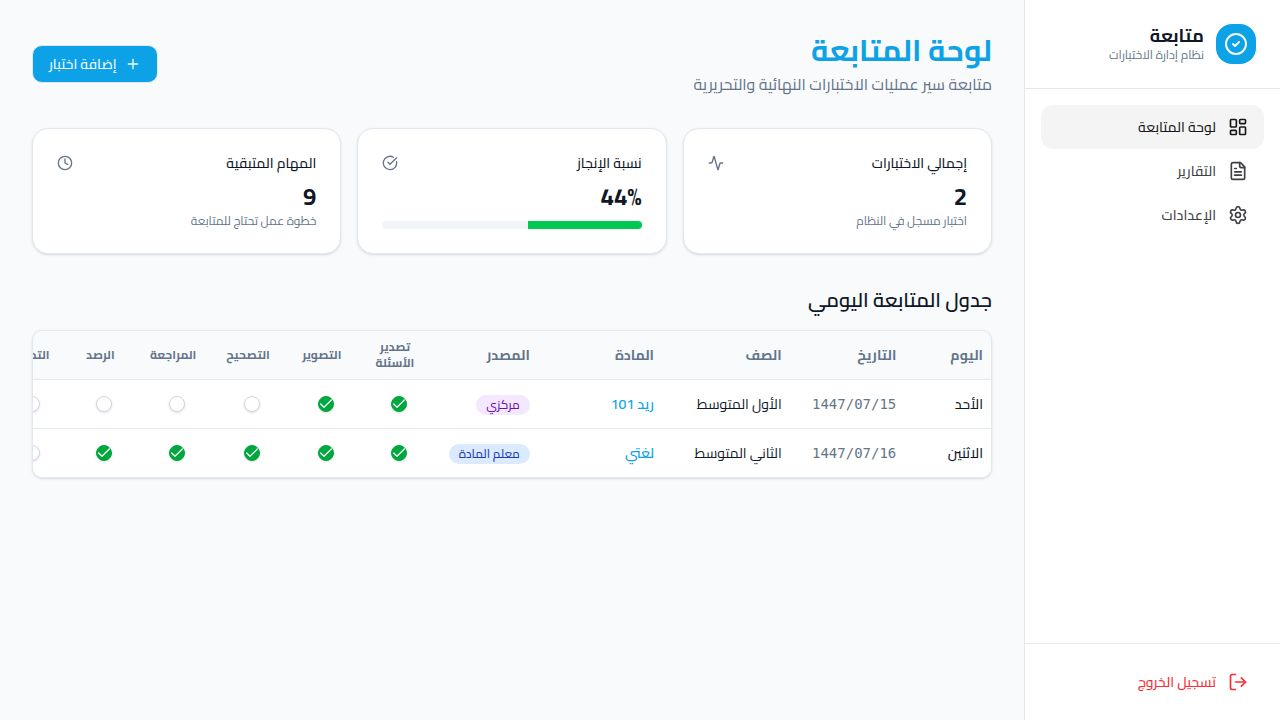
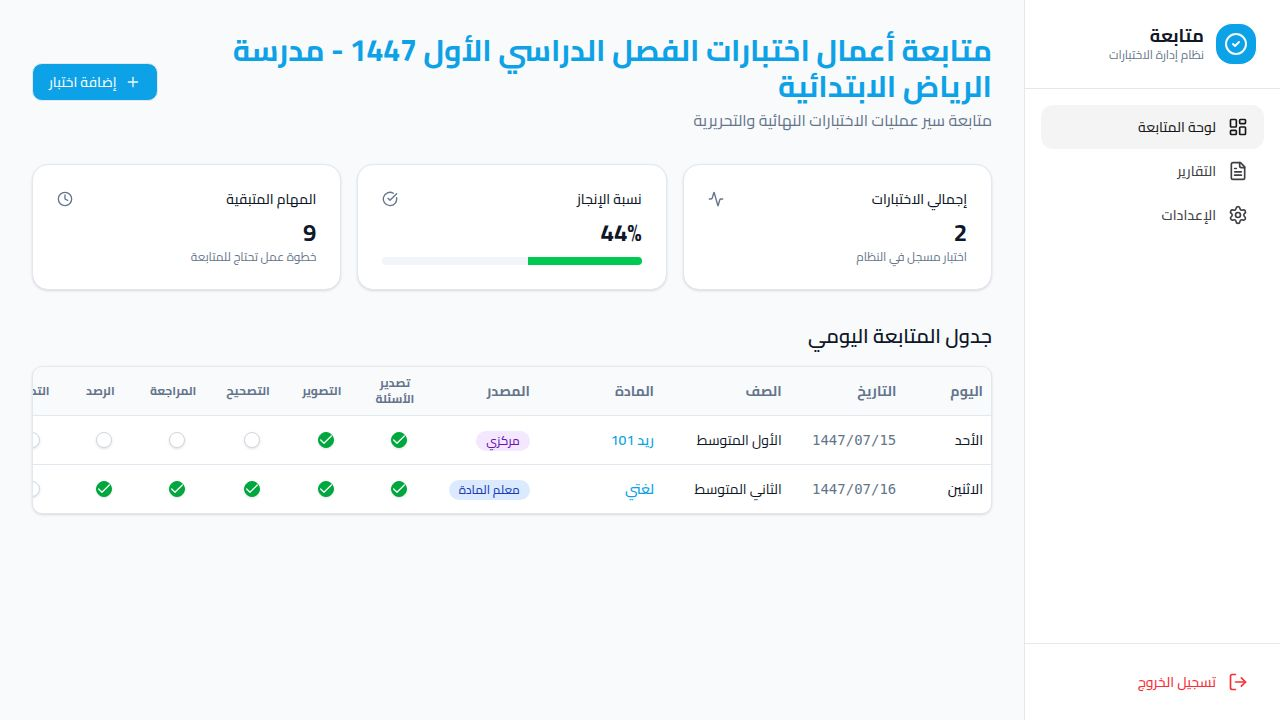
Update dashboard title and add question bank to exam source options
Modify the main heading to "متابعة أعمال اختبارات الفصل الدراسي الأول 1447 - مدرسة الرياض الابتدائية" in `Dashboard.tsx` and add a new `SelectItem` with the value "بنك الأسئلة" to the source dropdown in `AddExamDialog.tsx`.

Replit-Commit-Author: Agent
Replit-Commit-Session-Id: 1fb7bff1-9c2e-4920-a387-5d6b63552f79
Replit-Commit-Checkpoint-Type: full_checkpoint
Replit-Commit-Event-Id: d47c5ddf-34c6-4760-8216-28896d63cf7b
Replit-Commit-Screenshot-Url: https://storage.googleapis.com/screenshot-production-us-central1/3763b51a-533d-483e-8015-daea80229af5/1fb7bff1-9c2e-4920-a387-5d6b63552f79/c2vHriE
Replit-Helium-Checkpoint-Created: true

diff --git a/client/src/pages/Dashboard.tsx b/client/src/pages/Dashboard.tsx
@@ -20,7 +20,7 @@ export default function Dashboard() {
       <div className="space-y-8 animate-in fade-in duration-500">
         <div className="flex flex-col md:flex-row justify-between items-start md:items-center gap-4">
           <div>
-            <h1 className="text-3xl font-bold tracking-tight text-primary">لوحة المتابعة</h1>
+            <h1 className="text-3xl font-bold tracking-tight text-primary">متابعة أعمال اختبارات الفصل الدراسي الأول 1447 - مدرسة الرياض الابتدائية</h1>
             <p className="text-muted-foreground mt-1">
               متابعة سير عمليات الاختبارات النهائية والتحريرية
             </p>

diff --git a/client/src/components/exam/AddExamDialog.tsx b/client/src/components/exam/AddExamDialog.tsx
@@ -218,6 +218,7 @@ export function AddExamDialog({ onAdd }: AddExamDialogProps) {
                       <SelectItem value="معلم المادة">معلم المادة</SelectItem>
                       <SelectItem value="مركزي">مركزي</SelectItem>
                       <SelectItem value="مشترك">مشترك</SelectItem>
+                      <SelectItem value="بنك الأسئلة">بنك الأسئلة</SelectItem>
                     </SelectContent>
                   </Select>
                   <FormMessage />